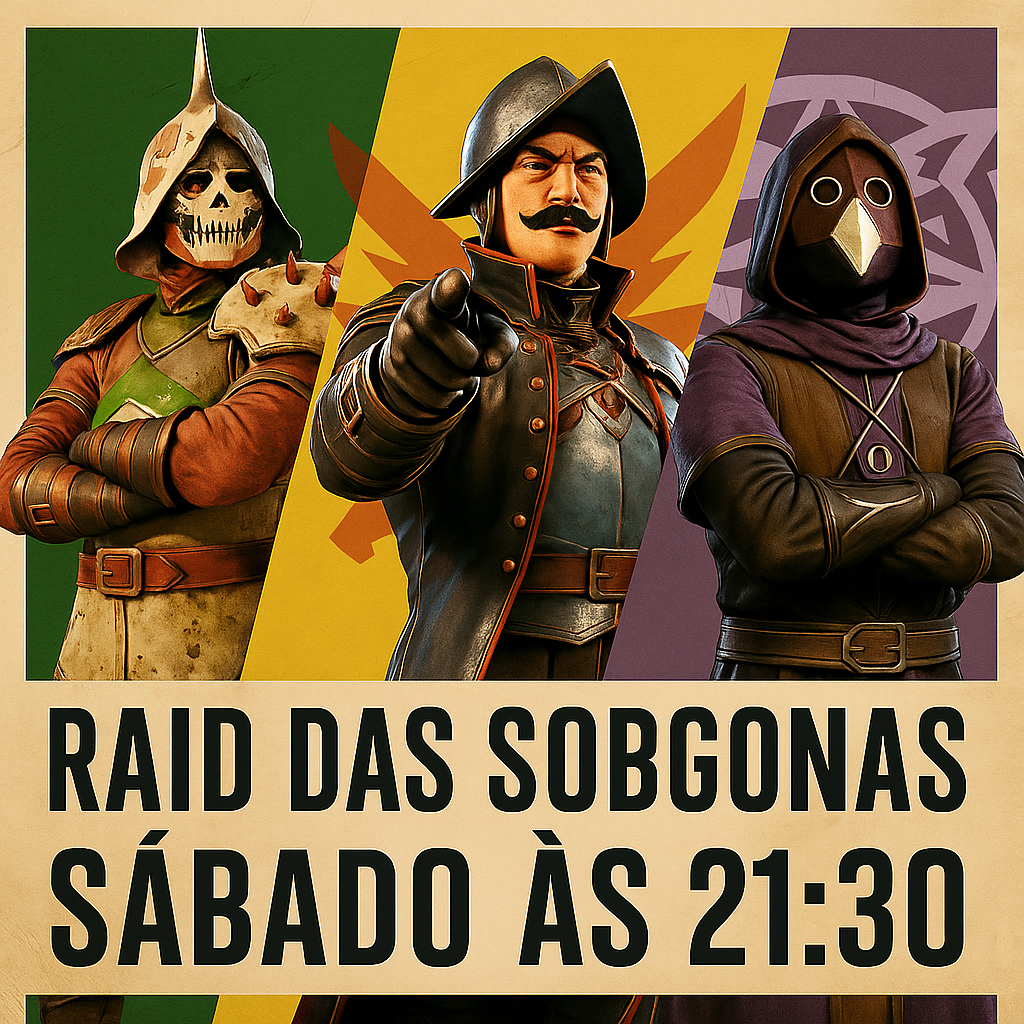
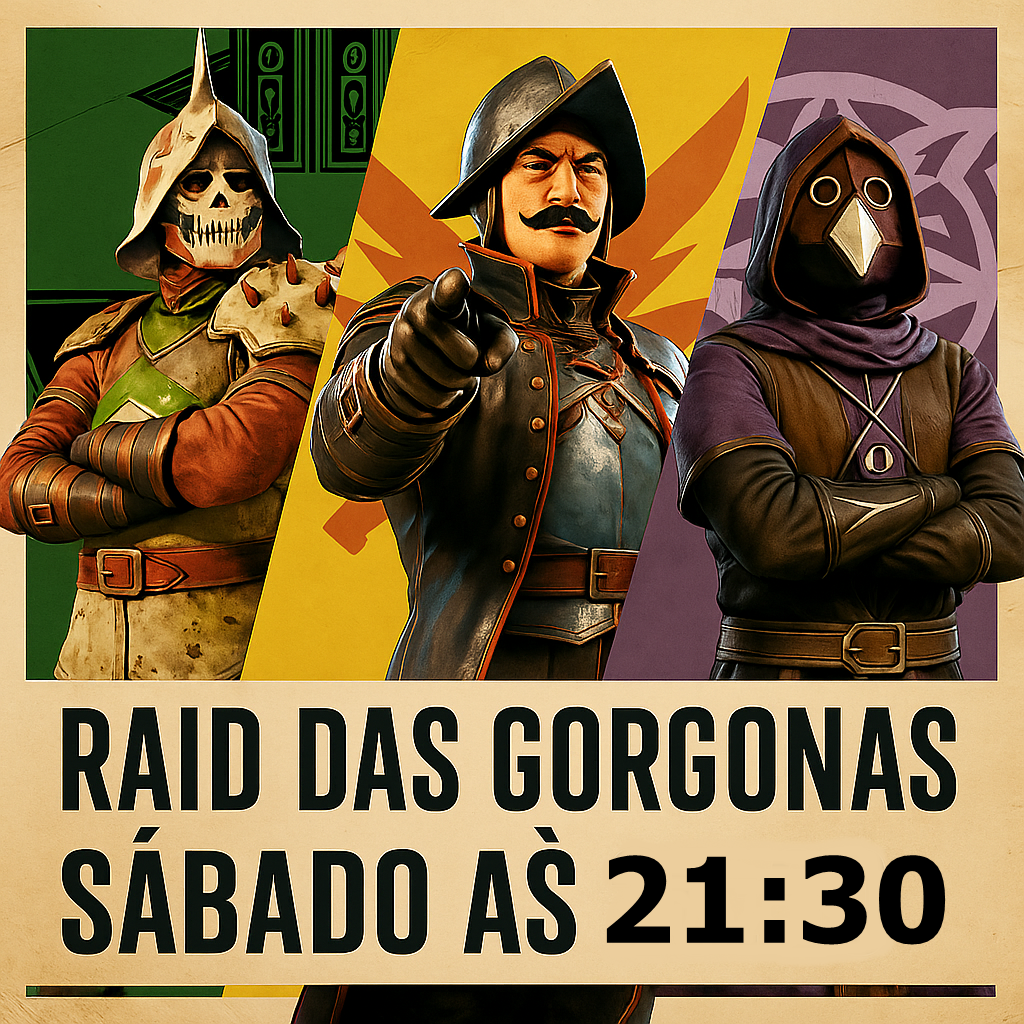
atualização 01

diff --git a/index.html b/index.html
@@ -93,6 +93,10 @@
 
 
         </section>
+                <!-- Seção NWDB Brasil: iframe menor -->
+                <section id="nwdb" class="content-section">
+                                                            <!-- Seção removida: iframe agora está em uma página dedicada -->
+                </section>
 
         <!-- Seção "Sobre": uma introdução ao tema do site. -->
         <section id="sobre" class="content-section">
@@ -151,18 +155,17 @@
                 <h2>Nossas Atvidades</h2>
                 <div class="news-grid">
                     
-                    <!-- Card de Notícia 1 -->
+                    <!-- Card NWDB Brasil (mais recente) -->
                     <article class="news-card">
-                        <img src="https://cdnb.artstation.com/p/assets/images/images/077/789/997/large/alex-stratulat-nwam-v010.jpg?1720372883" alt="Imagem de uma batalha épica">
+                        <img src="images/Logo.jpeg" alt="Logo NWDB Brasil">
                         <div class="card-content">
-                            <h3>Raids</h3>
-                            <p>Nossas legiões marcharam sobre as Gorgonas e, as 20:30hrs na Quarta e Sabados as 21:30hrs para ajudar a se equipar  .</p>
-                            <a href="https://discord.gg/CYGMuXSRkw">Venha para o Discord  &rarr;</a>
-
+                            <h3>Banco de Dados NWDB Brasil</h3>
+                            <p>Consulte informações detalhadas sobre itens, builds e tudo do New World em português.</p>
+                            <a href="nwdb.html">Acessar NWDB Brasil &rarr;</a>
                         </div>
                     </article>
 
-                    <!-- Card de Notícia 2 -->
+                    <!-- Card Amigável com Iniciantes -->
                     <article class="news-card">
                         <img src="https://cdna.artstation.com/p/assets/images/images/077/789/992/large/alex-stratulat-nwam-v008.jpg?1720372873" alt="Imagem de runas mágicas brilhando">
                         <div class="card-content">
@@ -172,7 +175,17 @@
                         </div>
                     </article>
 
-                    <!-- Card de Notícia 3 -->
+                    <!-- Card Raids -->
+                    <article class="news-card">
+                        <img src="https://cdnb.artstation.com/p/assets/images/images/077/789/997/large/alex-stratulat-nwam-v010.jpg?1720372883" alt="Imagem de uma batalha épica">
+                        <div class="card-content">
+                            <h3>Raids</h3>
+                            <p>Nossas legiões marcharam sobre as Gorgonas e, as 20:30hrs na Quarta e Sabados as 21:30hrs para ajudar a se equipar  .</p>
+                            <a href="https://discord.gg/CYGMuXSRkw">Venha para o Discord  &rarr;</a>
+                        </div>
+                    </article>
+
+                    <!-- Card Canais da Twitch -->
                     <article class="news-card">
                         <img src="https://i.pinimg.com/736x/da/05/c5/da05c5675e0f2d956d6e5ffa6ccafc78.jpg" alt="Imagem de um guerreiro ajoelhado">
                         <div class="card-content">

diff --git a/nwdb.html b/nwdb.html
@@ -1,0 +1,53 @@
+<!DOCTYPE html>
+<html lang="pt-br">
+<head>
+    <meta charset="UTF-8">
+    <meta name="viewport" content="width=device-width, initial-scale=1.0">
+    <title>Banco de Dados NWDB Brasil</title>
+    <link rel="icon" type="image/jpeg" href="images/Logo.jpeg">
+    <link rel="preconnect" href="https://fonts.googleapis.com">
+    <link rel="preconnect" href="https://fonts.gstatic.com" crossorigin>
+    <link href="https://fonts.googleapis.com/css2?family=Cinzel:wght@700&family=IM+Fell+English+SC&family=Roboto:wght@400;700&display=swap" rel="stylesheet">
+    <link rel="stylesheet" href="style.css">
+    <style>
+        body { background: #111; }
+        .nwdb-page-container { max-width: 1000px; margin: 0 auto; padding: 32px 16px; text-align: center; }
+        .nwdb-page-container h1 { color: #b98c53; margin-bottom: 24px; }
+        .nwdb-page-container iframe { width: 100%; max-width: 900px; height: 600px; border: 1px solid #333; border-radius: 8px; margin: 0 auto; display: block; }
+        .nwdb-page-container p { color: #fff; margin-top: 12px; }
+    </style>
+</head>
+<body>
+    <header>
+        <div class="container header-container">
+            <a href="index.html" class="logo">O Covil</a>
+            <nav class="nav-links">
+                <ul>
+                    <li><a href="index.html#sobre">Sobre</a></li>
+                    <li><a href="index.html#noticias">Notícias</a></li>
+                    <li><a href="index.html#comunidade">Comunidade</a></li>
+                </ul>
+            </nav>
+            <a href="https://discord.gg/CYGMuXSRkw" class="cta-button header-cta">Junte-se ao Clã</a>
+        </div>
+    </header>
+    <main>
+        <section class="content-section">
+            <div class="container">
+                <h1>Banco de Dados NWDB Brasil</h1>
+                <p>Consulte informações detalhadas sobre itens, builds e tudo do New World em português.</p>
+            </div>
+        </section>
+    </main>
+    <footer>
+        <div class="container">
+            <div class="social-links">
+                <a href="https://discord.gg/CYGMuXSRkw" target="_blank">Discord</a>
+                <a href="#" target="_blank">Twitch</a>
+                <a href="#" target="_blank">YouTube</a>
+            </div>
+            <p class="copyright">&copy; 2025 Covil . Todos os direitos reservados. Um projeto de fã sem fins lucrativos.</p>
+        </div>
+    </footer>
+</body>
+</html>

diff --git a/style.css b/style.css
@@ -1,3 +1,79 @@
+#nwdb h2 {
+    color: #b98c53;
+}
+/* Fundo com imagem para a seção NWDB Brasil */
+.nwdb-bg-wrapper {
+    position: relative;
+    width: 100%;
+    min-height: 400px;
+    display: flex;
+    align-items: center;
+    justify-content: center;
+    overflow: hidden;
+}
+.nwdb-bg-img {
+    position: absolute;
+    top: 0;
+    left: 0;
+    width: 100%;
+    height: 100%;
+    object-fit: cover;
+    z-index: 1;
+    opacity: 0.6;
+}
+.nwdb-content {
+    position: relative;
+    z-index: 2;
+    width: 100%;
+    display: flex;
+    flex-direction: column;
+    align-items: center;
+    justify-content: center;
+}
+/* Centralização da seção NWDB Brasil */
+#nwdb .container {
+        display: flex;
+        flex-direction: column;
+        align-items: center;
+        justify-content: center;
+        text-align: center;
+    }
+}
+#nwdb h2 {
+    text-align: center;
+    width: 100%;
+}
+#nwdb iframe {
+        margin: 0 auto;
+        display: block;
+        text-align: center;
+}
+#nwdb p {
+        text-align: center;
+}
+/* Seção NWDB customizada */
+#nwdb {
+    background: #111;
+    padding: 0;
+    margin: 0;
+}
+#nwdb .container {
+    max-width: 100vw;
+    padding: 0;
+    margin: 0;
+}
+#nwdb iframe {
+                display: block;
+                width: 100vw;
+                height: 600px;
+                min-height: 400px;
+                border: none;
+                border-radius: 0;
+}
+#nwdb h2, #nwdb p {
+    color: #fff;
+    text-align: center;
+}
 /* Vídeo de fundo para a seção Nossa Comunidade */
 .comunidade-bg-video-wrapper {
     position: relative;

diff --git a/twitch-cards.html b/twitch-cards.html
@@ -1,0 +1,25 @@
+<!DOCTYPE html>
+<html lang="pt-br">
+<head>
+    <meta charset="UTF-8">
+    <meta name="viewport" content="width=device-width, initial-scale=1.0">
+    <title>Canais da Twitch</title>
+    <link rel="icon" type="image/jpeg" href="images/Logo.jpeg">
+    <link rel="stylesheet" href="style.css">
+</head>
+<body>
+    <header>
+        <div class="container header-container">
+            <a href="index.html" class="logo">O Covil</a>
+        </div>
+    </header>
+    <main>
+        <section class="content-section">
+            <div class="container">
+                <h1>Canais da Twitch</h1>
+                <p>O Covil temos nossos representantes. Se você tem a coragem e a força para lutar sob nosso estandarte, sua hora chegou. Venha ver as Lives e melhore sua gameplay em Dungeons, Raids e PVP.</p>
+            </div>
+        </section>
+    </main>
+</body>
+</html>

diff --git a/iniciantes.html b/iniciantes.html
@@ -1,0 +1,25 @@
+<!DOCTYPE html>
+<html lang="pt-br">
+<head>
+    <meta charset="UTF-8">
+    <meta name="viewport" content="width=device-width, initial-scale=1.0">
+    <title>Amigável com Iniciantes</title>
+    <link rel="icon" type="image/jpeg" href="images/Logo.jpeg">
+    <link rel="stylesheet" href="style.css">
+</head>
+<body>
+    <header>
+        <div class="container header-container">
+            <a href="index.html" class="logo">O Covil</a>
+        </div>
+    </header>
+    <main>
+        <section class="content-section">
+            <div class="container">
+                <h1>Amigável com Iniciantes</h1>
+                <p>Ser novato não quer dizer ser fraco, venha e vamos lapidar esse diamante para que se torne uma das joias mais puras em toda Aeternum.</p>
+            </div>
+        </section>
+    </main>
+</body>
+</html>

diff --git a/raids.html b/raids.html
@@ -1,0 +1,25 @@
+<!DOCTYPE html>
+<html lang="pt-br">
+<head>
+    <meta charset="UTF-8">
+    <meta name="viewport" content="width=device-width, initial-scale=1.0">
+    <title>Raids</title>
+    <link rel="icon" type="image/jpeg" href="images/Logo.jpeg">
+    <link rel="stylesheet" href="style.css">
+</head>
+<body>
+    <header>
+        <div class="container header-container">
+            <a href="index.html" class="logo">O Covil</a>
+        </div>
+    </header>
+    <main>
+        <section class="content-section">
+            <div class="container">
+                <h1>Raids</h1>
+                <p>Nossas legiões marcharam sobre as Gorgonas e, as 20:30hrs na Quarta e Sábados as 21:30hrs para ajudar a se equipar.</p>
+            </div>
+        </section>
+    </main>
+</body>
+</html>
